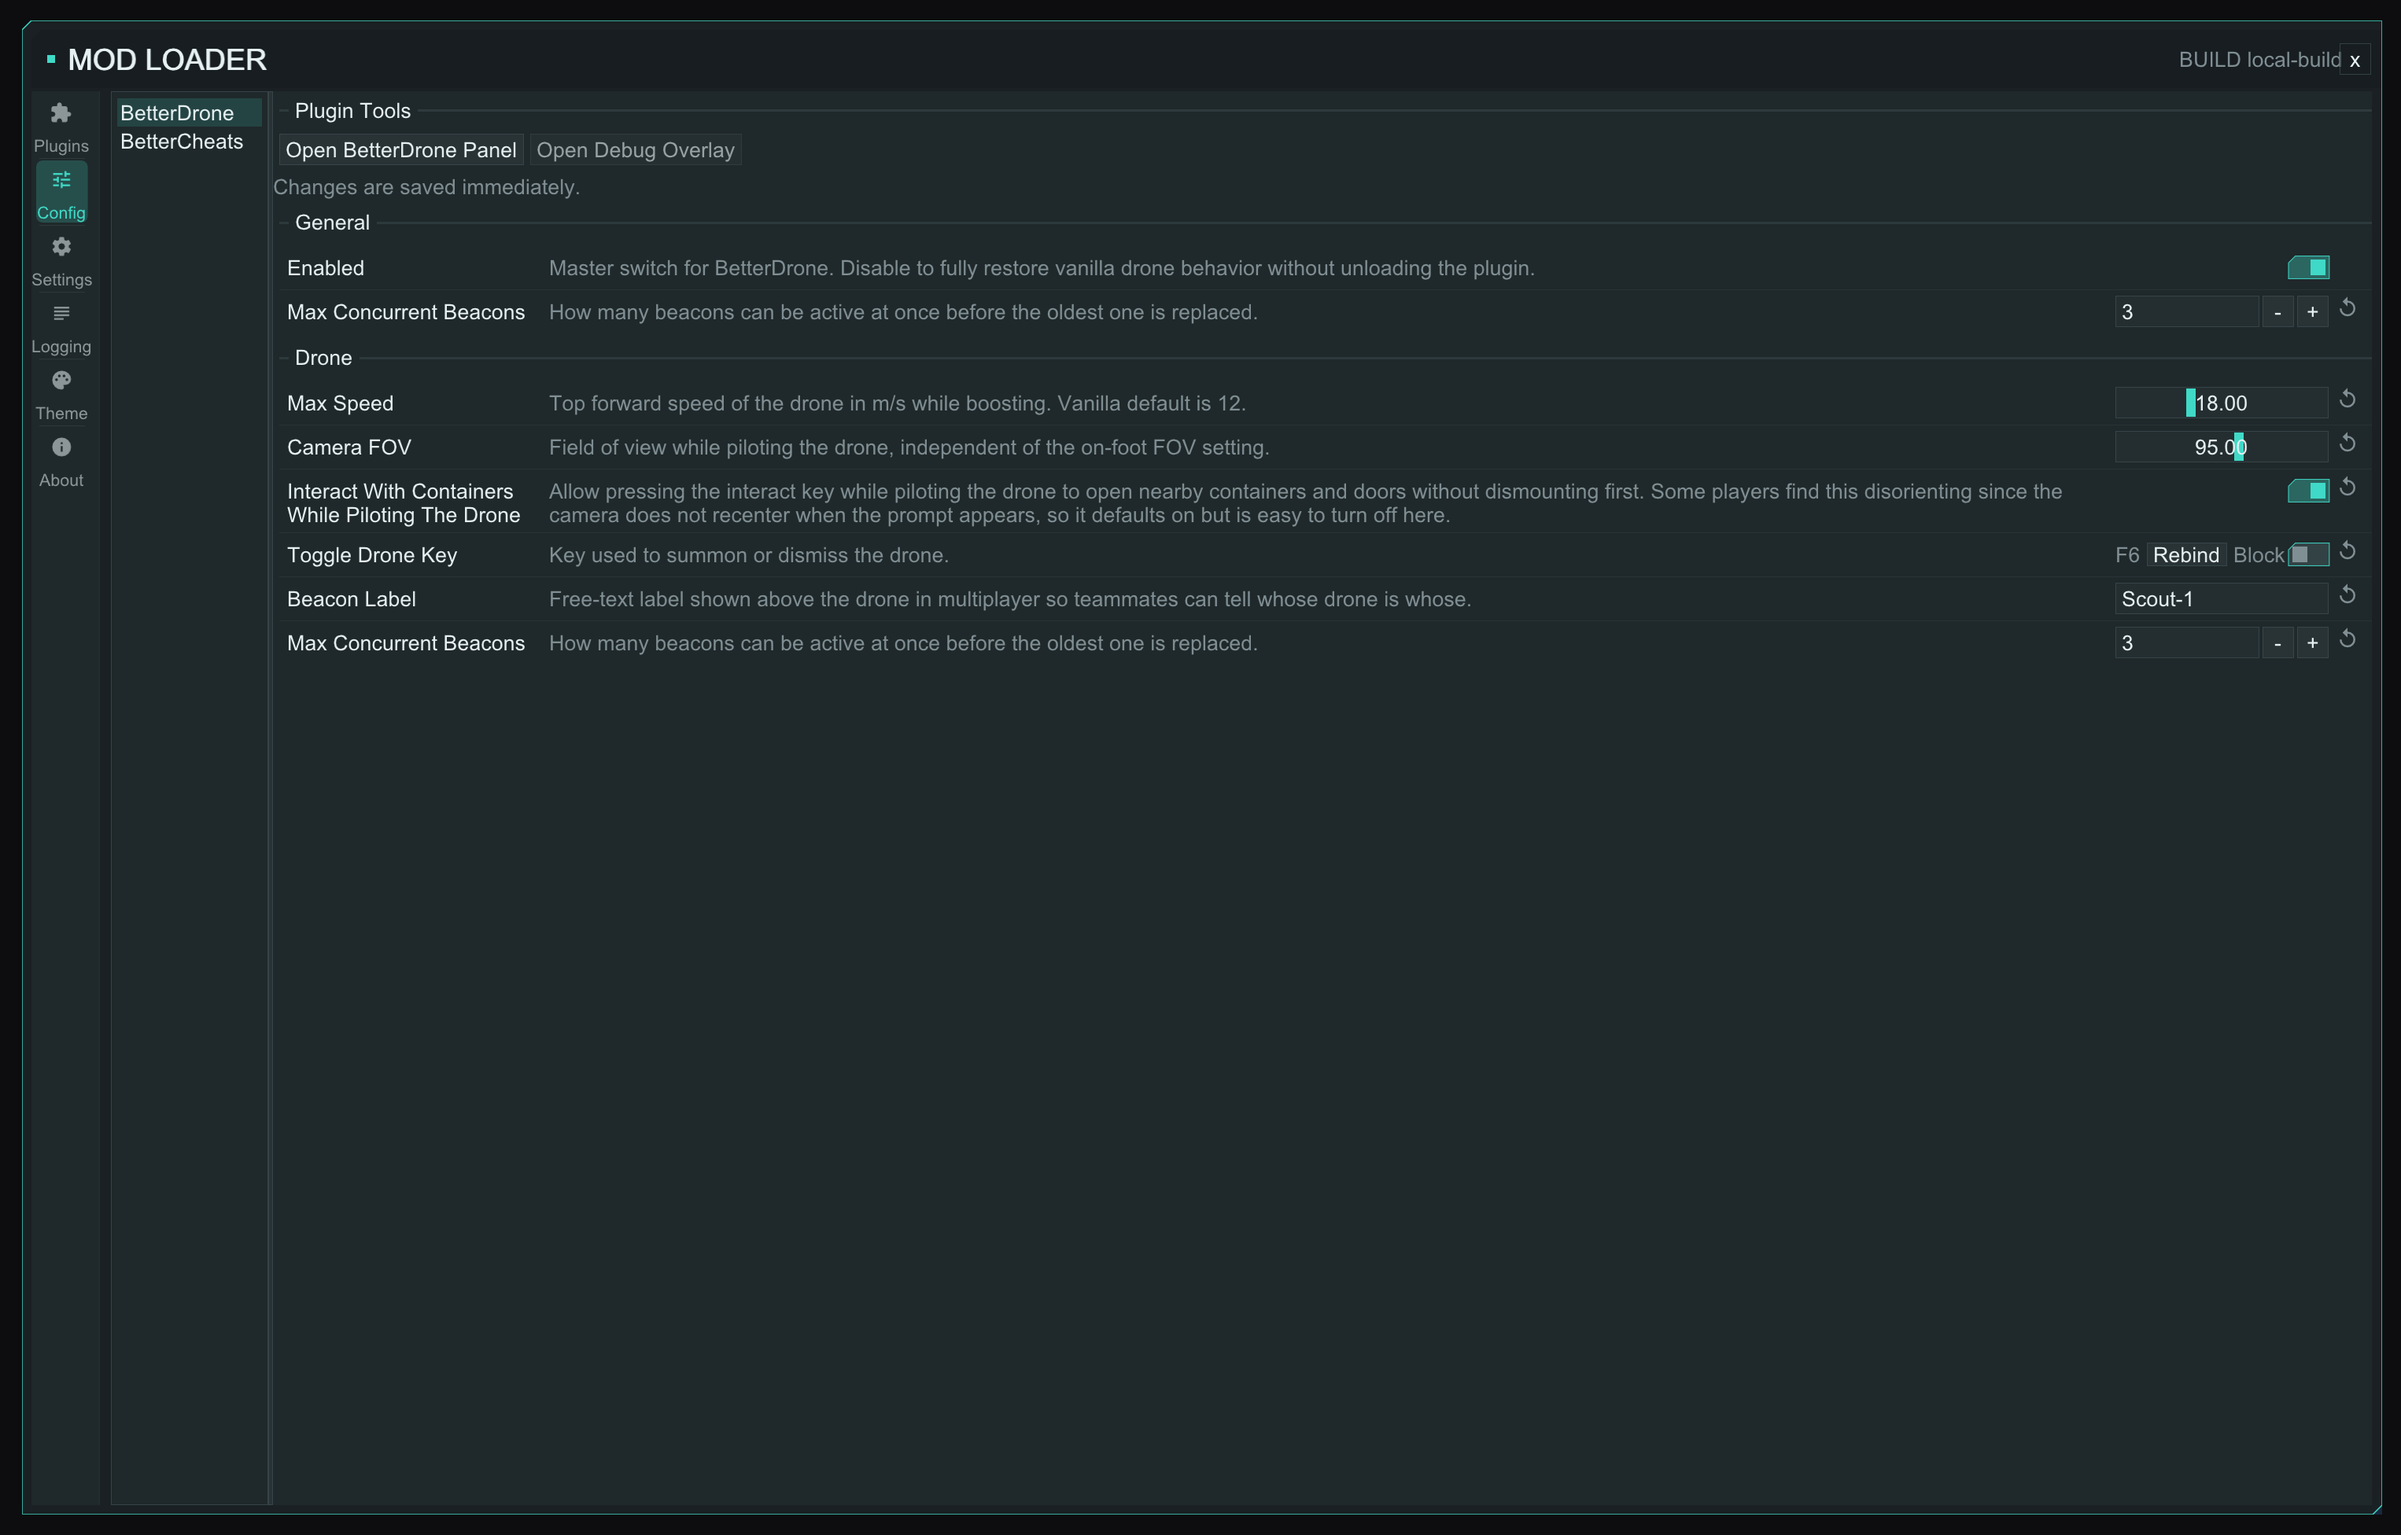
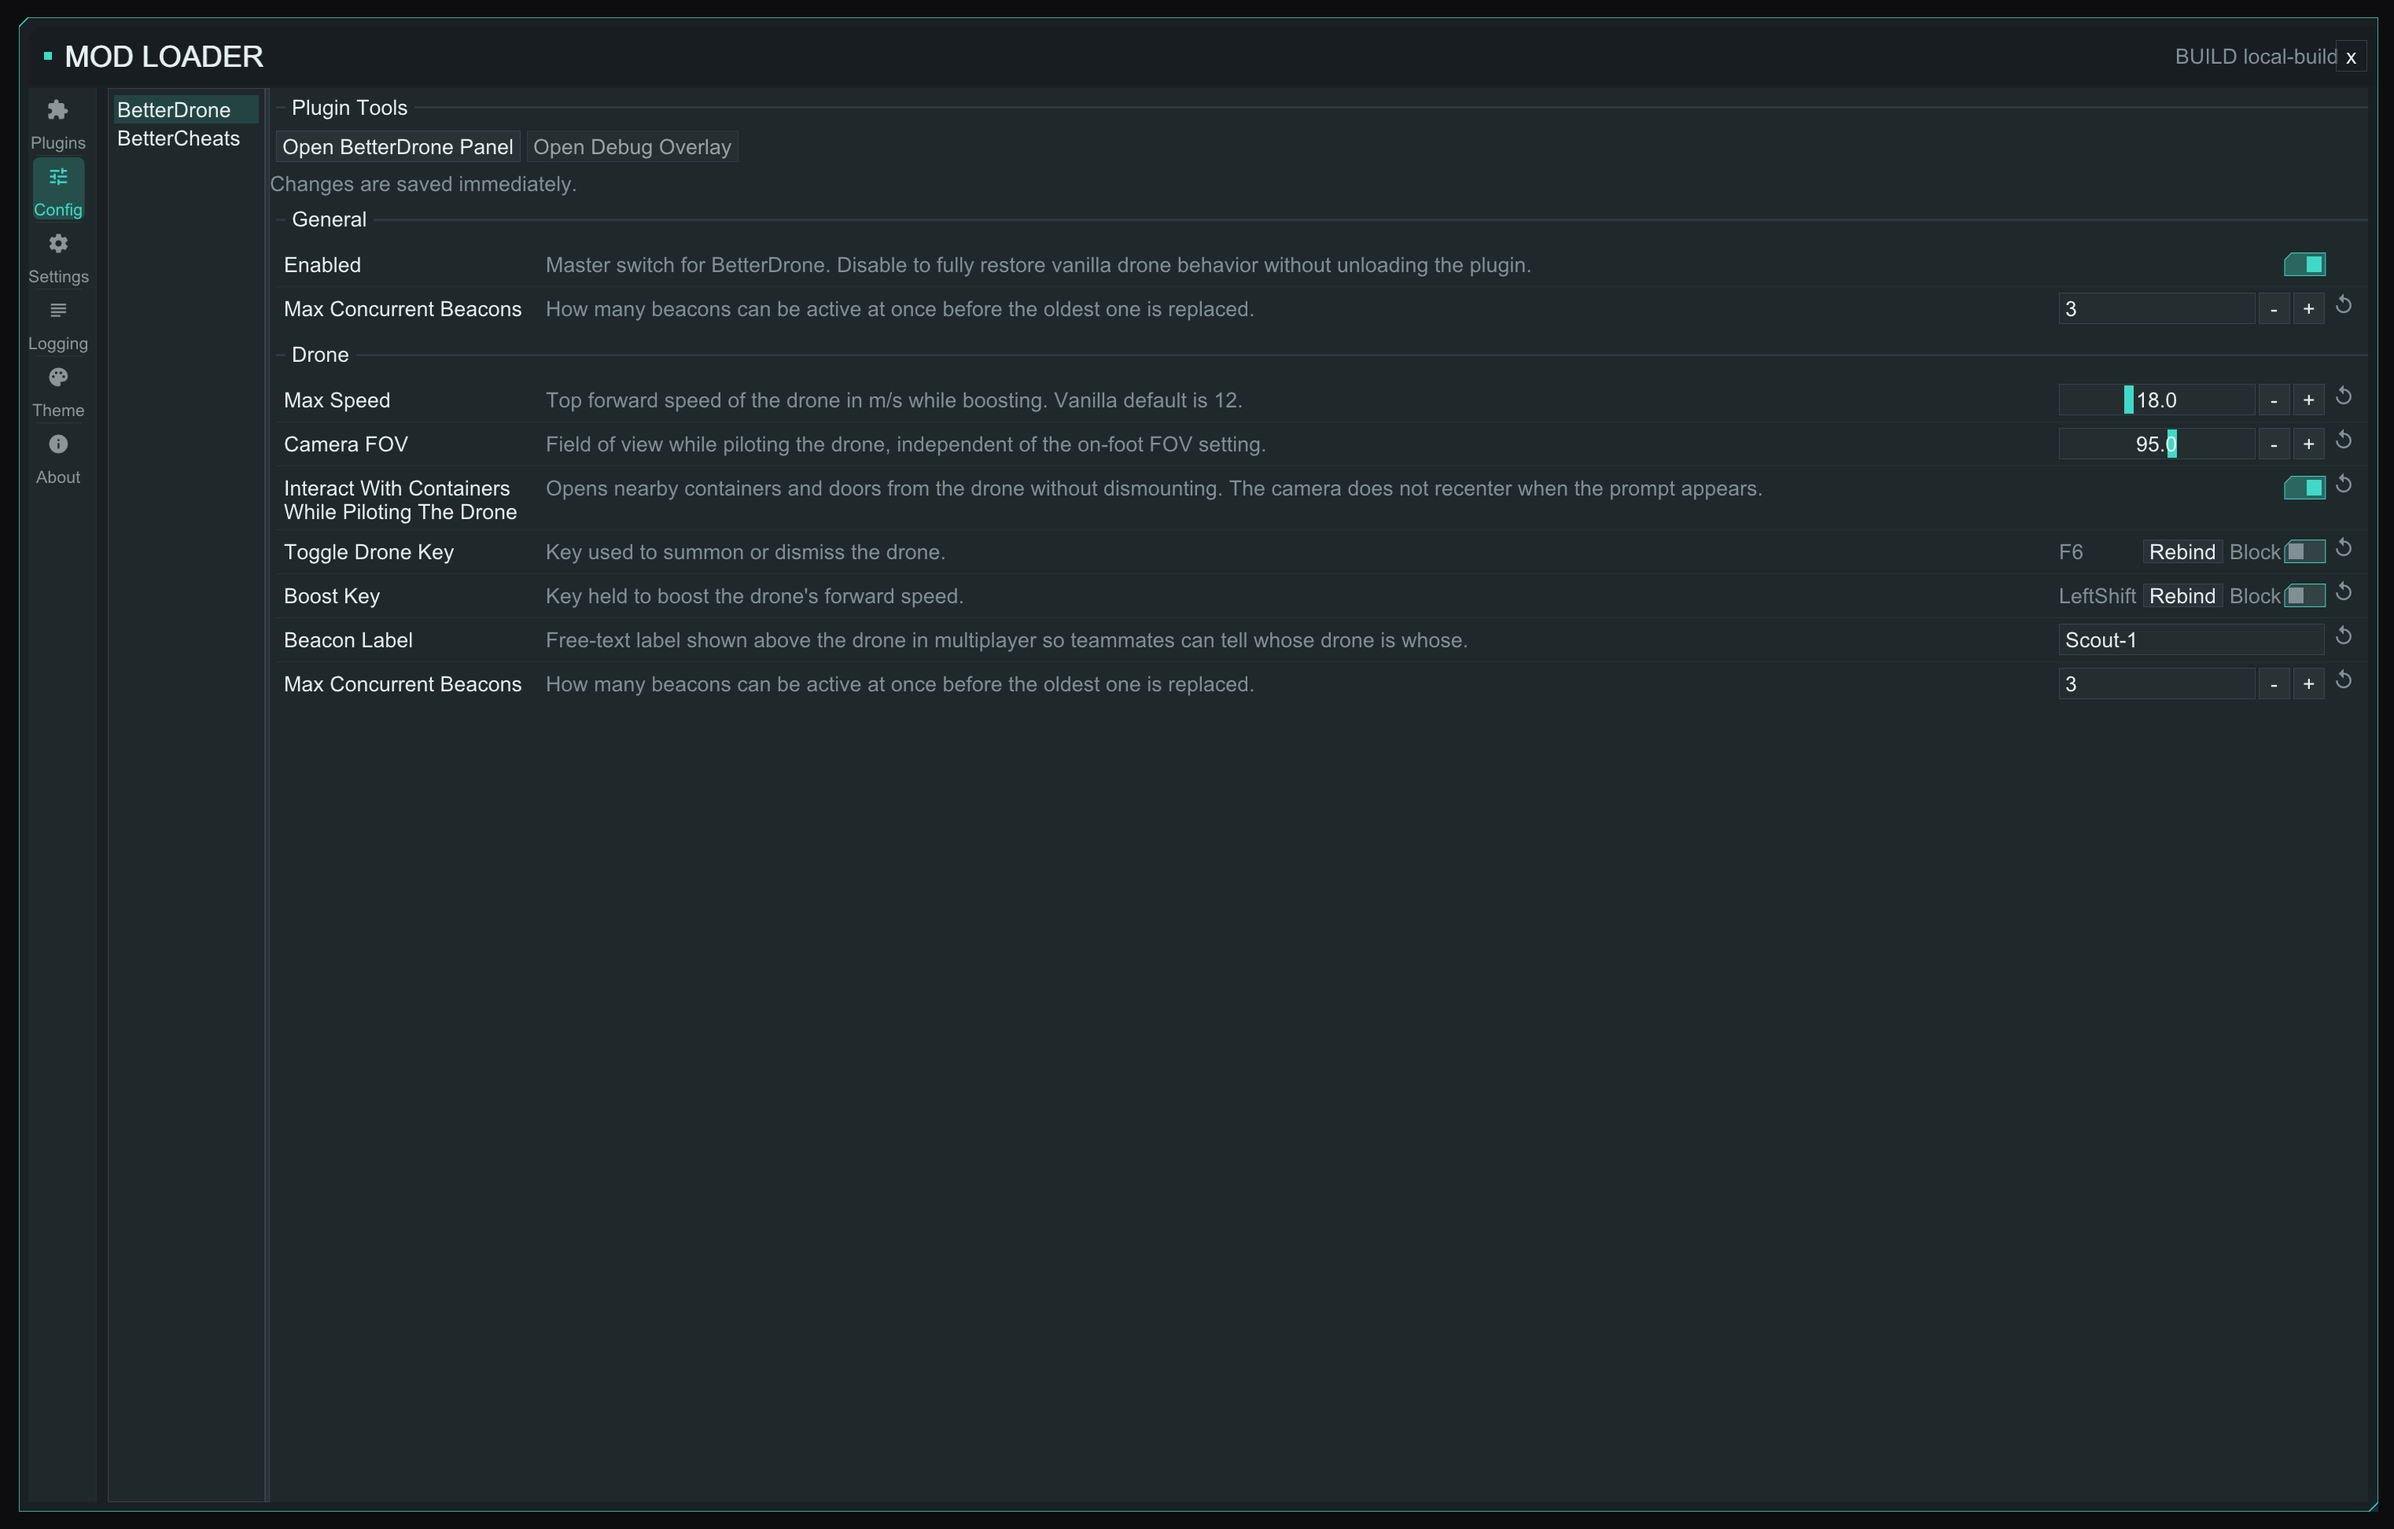
Add narrow before/after pair and correct the before-state description

diff --git a/for-alienx.md b/for-alienx.md
@@ -23,6 +23,7 @@ Every change is its own commit, and the commit messages go into more detail than
 **Loader: UI**
 - Config page labels and descriptions layout adjustments
 - Sliders now have a maximum width, and floats show 2 decimals
+- Ranged sliders get +/- step buttons, 1% of the range per click, 10% with Ctrl held
 - Material Icons reset glyph on every reset button
 - Named themes, with save/rename/delete and a Star Rupture theme
 - Escape closes the ModLoader window
@@ -66,17 +67,22 @@ The UI additions, then three fixes, plus one bit of local build plumbing you pro
 
 The UI work, roughly in the order you'd run into it:
 
+These four config page captures come from a small preview harness that renders the page outside the game, with a synthetic settings schema built to exercise every row type, including a deliberately long label and description. The plugin shown is labeled BetterDrone, but settings like Max Speed, Camera FOV, and Beacon Label are made up for the test and don't exist in the real plugin.
+
 ![Config page, before](docs/config-before.png)
-*Before: fixed-width label column, long names run past it, description only visible as a hover marquee.*
+*Before: fixed-width label column, long names run past it. Descriptions lived in a hover tooltip, except boolean rows, which also ran them inline as a scrolling marquee.*
 
 ![Config page, after](docs/config-after.png)
 *After: label column sized to content, wrapped description line, rows centered on their tallest content.*
 
-![Config page, narrow window](docs/config-narrow.png)
-*The same config page at a narrow window, showing how the layout reflows.*
+![Config page, before, narrow window](docs/config-before-narrow.png)
+*Before at 900x700: the fixed 160px label column breaks down even faster with less room, same hover tooltip and boolean marquee as the wide version.*
 
-- Config page: the label column was a fixed 160px, and a longer label would run past it. Descriptions displayed as a hover-only marquee. The column now sizes to the widest label on the page (up to whatever width is left) and only wraps when needed. The row keeps its three columns (label, control, actions), with descriptions wrapping across the row's full width beneath the label. Rows center vertically on their tallest content instead of aligning to the top. A keybind row's companion Blocking key now shows only as that row's Block toggle, instead of also rendering as its own separate entry.
-- Sliders now have a maximum width (240px, scaled with UI font size) instead of filling the whole widget column, and float sliders/inputs format to 2 decimals instead of 6. Stored precision is unchanged either way.
+![Config page, after, narrow window](docs/config-narrow.png)
+*After at 900x700: the description wraps and row heights adapt, so it still reads cleanly.*
+
+- Config page: the label column was a fixed 160px, and a longer label would run past it. Descriptions lived in a hover tooltip, except on boolean rows, where they also ran inline in the control column as a clipped, scrolling marquee. The column now sizes to the widest label on the page (up to whatever width is left) and only wraps when needed. The row keeps its three columns (label, control, actions), with descriptions wrapping across the row's full width beneath the label. Rows center vertically on their tallest content instead of aligning to the top. A keybind row's companion Blocking key now shows only as that row's Block toggle, instead of also rendering as its own separate entry.
+- Sliders now have a maximum width (240px, scaled with UI font size) instead of filling the whole widget column, and float sliders/inputs format to 2 decimals instead of 6. Stored precision is unchanged either way. A ranged Int or Float slider now also gets a minus and plus button beside it, for precise adjustment without dragging. Each click steps 1% of the range, or 10% with Ctrl held. Ctrl was the choice there rather than Shift because ImGui already uses Shift on a drag for fine adjustment, so Shift was taken.
 - The reset button (a plain "R" before) and the Logging tab's "Reset All To Default" (no icon before) both now draw the `replay` glyph (U+E042) from the Material Icons font the sidebar already uses, styled the same as your other link-style text.
 - Named themes: the Theme tab held a single custom palette. A Theme dropdown now offers two built-ins, Default and a new "Star Rupture" theme matching the game's own value/hover/structure colors, plus any user theme saved to `ModLoader\Themes\<name>.ini`, shareable as a file. This also splits `Highlight` and `PanelBorder` out as their own color roles instead of reusing `Accent` for both "this is a value" and "this is hover/selected," which the game itself keeps visually distinct.
 - Escape now closes the ModLoader window, same as every plugin panel already does. It's deferred a frame so it doesn't collide with the rebind picker's own Escape-cancels-capture handling.
